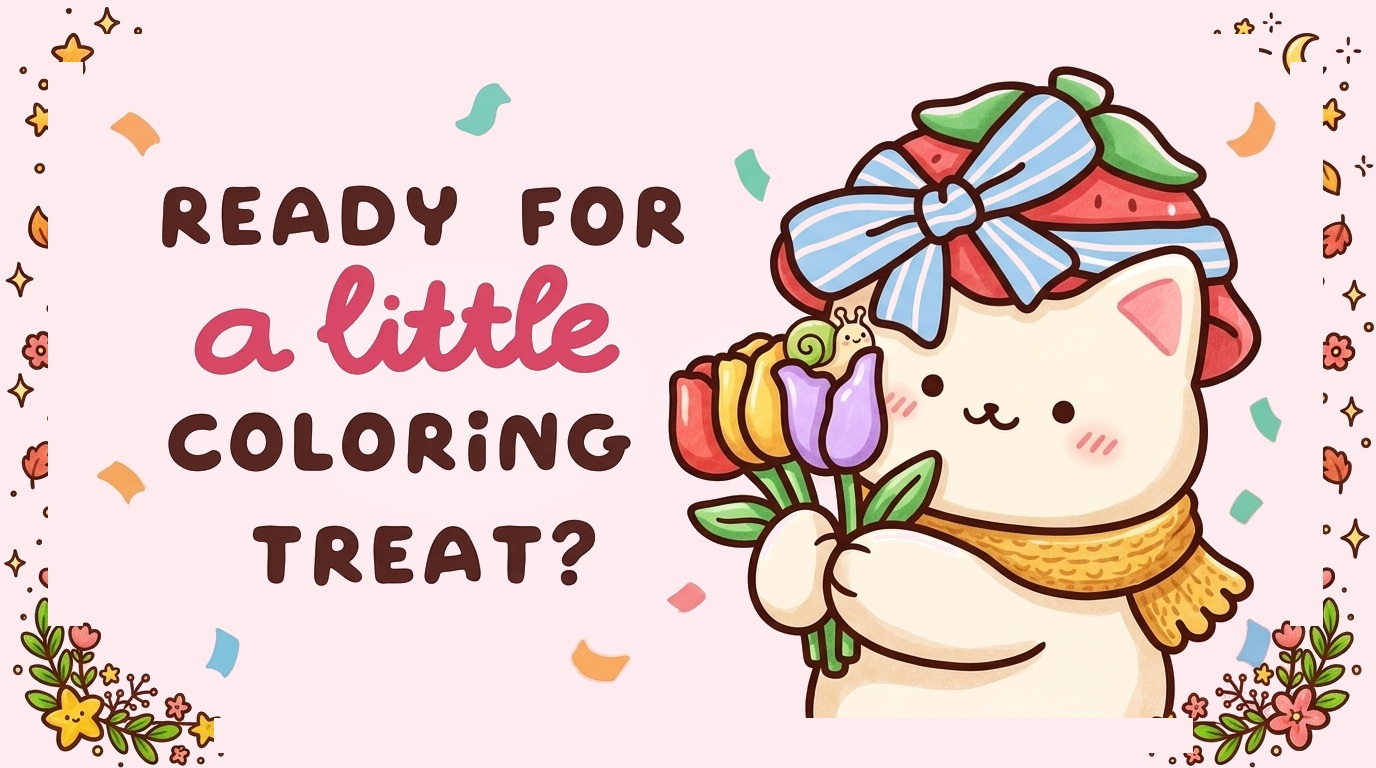
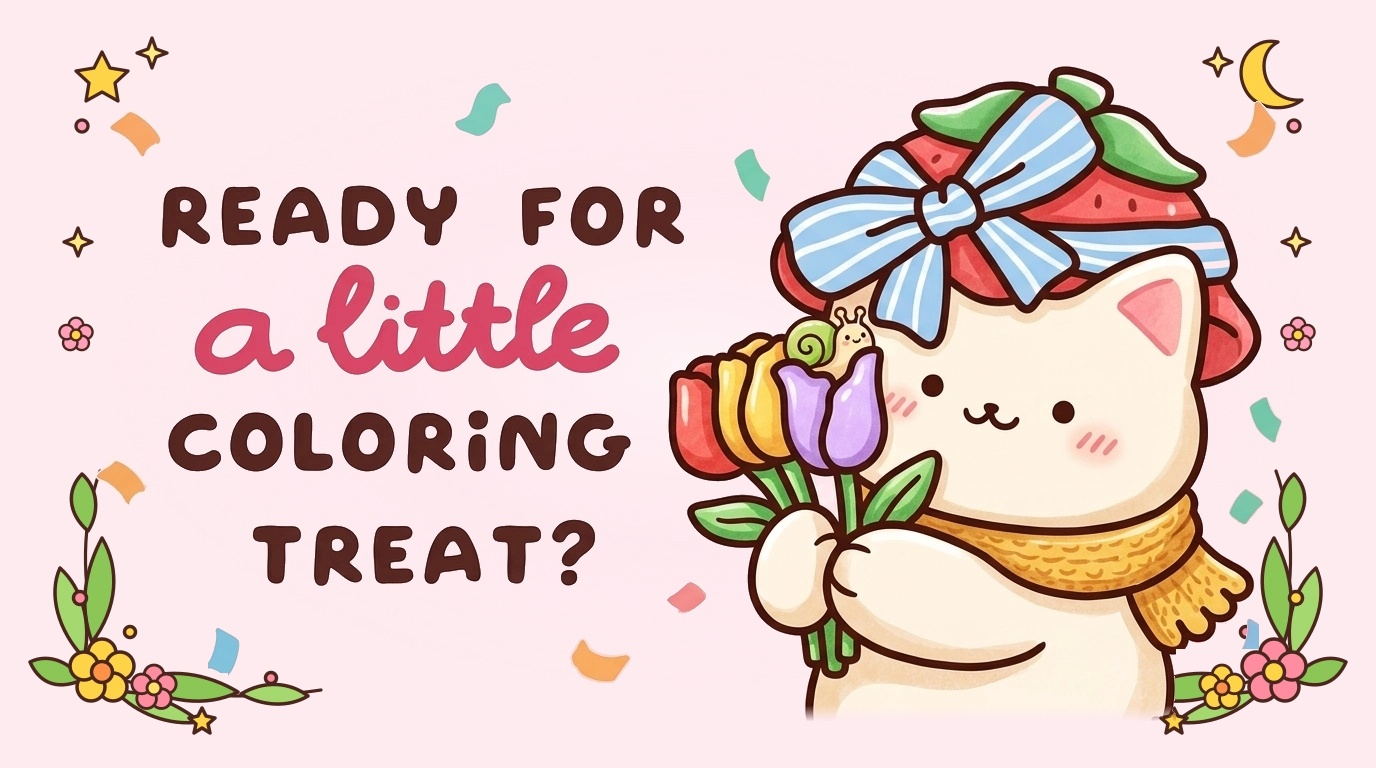
art(hero): refine Slide 3 botanical border vignette and outer sky star placement

diff --git a/src/components/HeroCarousel.tsx b/src/components/HeroCarousel.tsx
@@ -145,28 +145,28 @@ export const HeroCarousel: React.FC<HeroCarouselProps> = ({
             </radialGradient>
           </defs>
           <rect width="1440" height="620" fill="url(#heroSunGlow)" />
-          {/* Soft hand-drawn clouds */}
+          {/* Soft hand-drawn clouds in outer sky margins */}
           <g className="hero-cloud-drift-slow" fill="url(#heroCloudGrad)" stroke="#3A2824" strokeOpacity="0.12" strokeWidth="2.5">
-            <path d="M90 135 C90 112, 118 98, 142 108 C156 84, 196 84, 212 108 C236 102, 258 118, 254 140 C252 152, 236 158, 214 158 L112 158 C96 158, 90 148, 90 135 Z" />
-            <path d="M1140 110 C1140 88, 1168 74, 1192 84 C1208 60, 1248 60, 1264 84 C1288 78, 1310 94, 1306 116 C1304 128, 1288 134, 1266 134 L1162 134 C1146 134, 1140 124, 1140 110 Z" />
+            <path d="M55 155 C55 132, 83 118, 107 128 C121 104, 161 104, 177 128 C201 122, 223 138, 219 160 C217 172, 201 178, 179 178 L77 178 C61 178, 55 168, 55 155 Z" />
+            <path d="M1210 130 C1210 108, 1238 94, 1262 104 C1278 80, 1318 80, 1334 104 C1358 98, 1380 114, 1376 136 C1374 148, 1358 154, 1336 154 L1232 154 C1216 154, 1210 144, 1210 130 Z" />
           </g>
           <g className="hero-cloud-drift-fast" fill="url(#heroCloudGrad)" stroke="#3A2824" strokeOpacity="0.1" strokeWidth="2">
-            <path d="M510 92 C510 75, 532 64, 550 72 C562 54, 592 54, 604 72 C622 68, 638 80, 635 96 C633 105, 621 110, 605 110 L526 110 C514 110, 510 102, 510 92 Z" />
-            <path d="M360 495 C360 478, 382 467, 400 475 C412 457, 442 457, 454 475 C472 471, 488 483, 485 499 C483 508, 471 513, 455 513 L376 513 C364 513, 360 505, 360 495 Z" />
+            <path d="M115 475 C115 458, 137 447, 155 455 C167 437, 197 437, 209 455 C227 451, 243 463, 240 479 C238 488, 226 493, 210 493 L131 493 C119 493, 115 485, 115 475 Z" />
+            <path d="M1185 465 C1185 448, 1207 437, 1225 445 C1237 427, 1267 427, 1279 445 C1297 441, 1313 453, 1310 469 C1308 478, 1296 483, 1280 483 L1201 483 C1189 483, 1185 475, 1185 465 Z" />
           </g>
-          {/* Hand-drawn twinkling stars & sparkles */}
+          {/* Hand-drawn twinkling stars in outer sky margins */}
           <g fill="#F6C84C" stroke="#2B1B19" strokeWidth="2" strokeLinejoin="round">
             <path
               className="hero-svg-star star-a"
-              d="M448 164 L453 176 L466 178 L456 187 L459 200 L448 193 L437 200 L440 187 L430 178 L443 176 Z"
+              d="M168 78 L173 90 L186 92 L176 101 L179 114 L168 107 L157 114 L160 101 L150 92 L163 90 Z"
             />
             <path
               className="hero-svg-star star-b"
-              d="M1018 152 L1022 161 L1032 163 L1025 170 L1027 180 L1018 175 L1009 180 L1011 170 L1004 163 L1014 161 Z"
+              d="M1278 232 L1282 241 L1292 243 L1285 250 L1287 260 L1278 255 L1269 260 L1271 250 L1264 243 L1274 241 Z"
             />
             <path
               className="hero-svg-star star-c"
-              d="M620 430 L624 439 L634 441 L627 448 L629 458 L620 453 L611 458 L613 448 L606 441 L616 439 Z"
+              d="M148 318 L152 327 L162 329 L155 336 L157 346 L148 341 L139 346 L141 336 L134 329 L144 327 Z"
             />
           </g>
         </svg>
